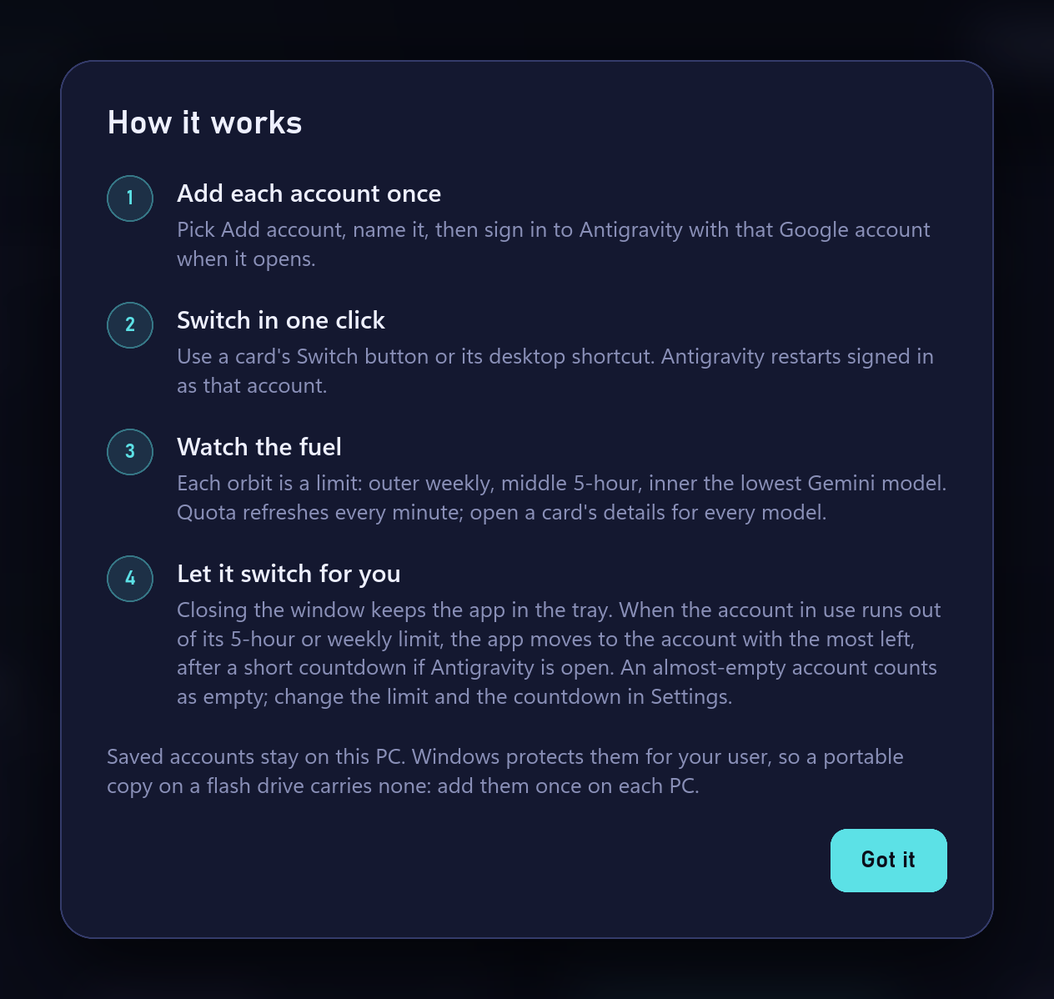
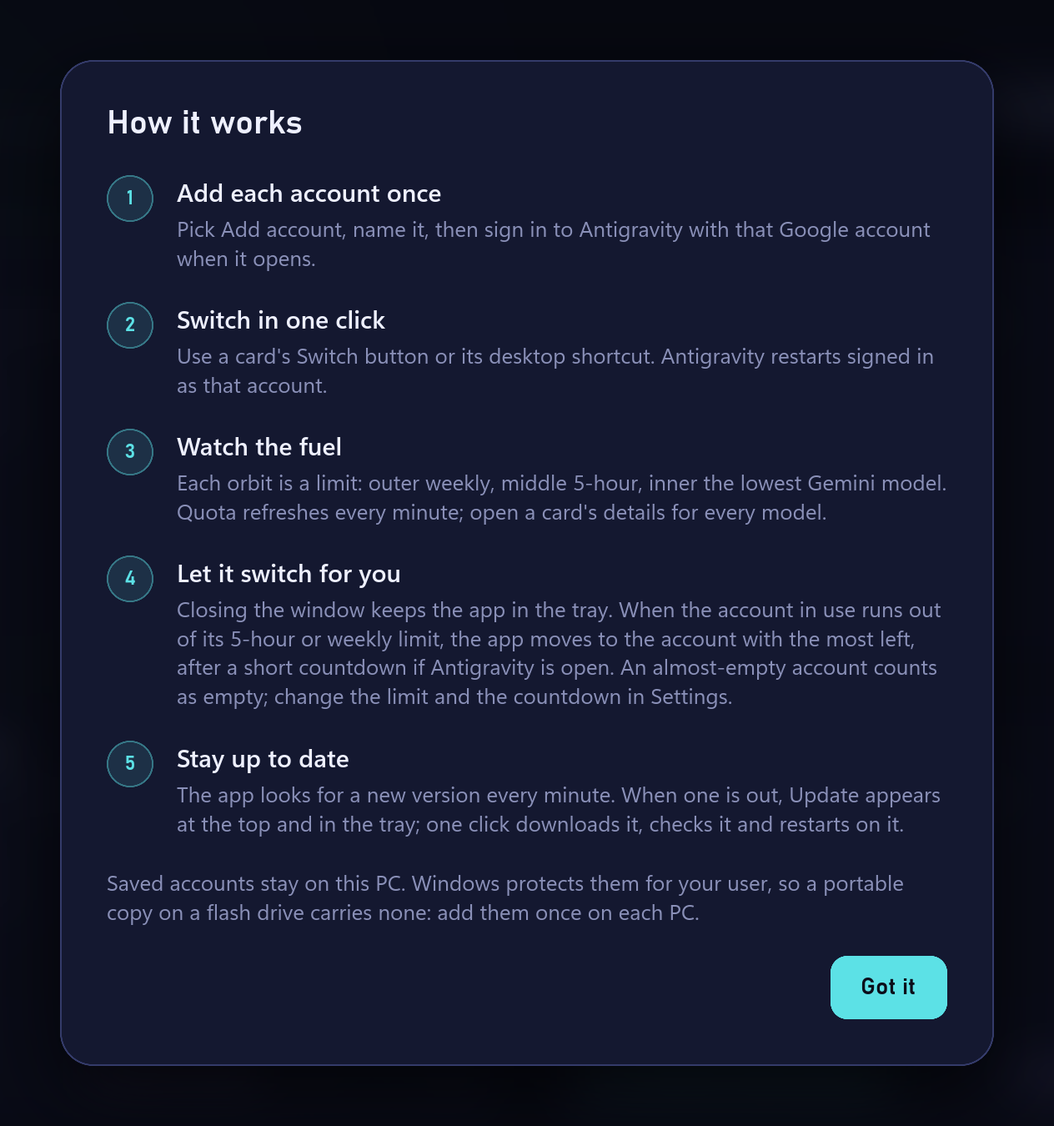
Rewrite the README for 1.2.0, and say in About that GitHub is contacted
The README now starts with the installer and the portable zip, tours
the one-click update with its own screenshots (the Update button, About
with a new version, the progress sheet, the corner notice and the tray
menu's new items), and documents the command line, the release files,
the CI and Release workflows and how to publish a version.

About and SECURITY.md said Google's quota service was the only thing
contacted; the release feed on GitHub is now named too.

diff --git a/README.md b/README.md
@@ -4,41 +4,46 @@
 
 **Every Antigravity account on one Windows desktop: the quota each one has left, and the switch made before you hit the wall.**
 
-One portable `.exe`, no installer, no administrator rights.
-Sign-ins stay in Windows Credential Manager; the only traffic is Google's own quota service, with each account's own sign-in.
+An installer or one portable `.exe`, no administrator rights.
+Sign-ins stay in Windows Credential Manager; the only traffic is Google's own quota service and this project's GitHub releases.
 When the account in use runs dry, it moves you to the one with the most left, and never from 2% to 1%.
 
-![version](https://img.shields.io/badge/version-1.1.0-6366f1?style=flat-square)
+[![release](https://img.shields.io/github/v/release/DrSaeedHub/pro-antigravity-manager?style=flat-square&color=6366f1&label=release)](https://github.com/DrSaeedHub/pro-antigravity-manager/releases)
+[![downloads](https://img.shields.io/github/downloads/DrSaeedHub/pro-antigravity-manager/total?style=flat-square&color=22c55e&label=downloads)](https://github.com/DrSaeedHub/pro-antigravity-manager/releases)
+[![ci](https://img.shields.io/github/actions/workflow/status/DrSaeedHub/pro-antigravity-manager/ci.yml?branch=master&style=flat-square&label=gate)](https://github.com/DrSaeedHub/pro-antigravity-manager/actions/workflows/ci.yml)
+[![license](https://img.shields.io/badge/license-MIT-334155?style=flat-square)](LICENSE)
 ![platform](https://img.shields.io/badge/platform-windows%2010%20%C2%B7%2011%20%C2%B7%20x64-334155?style=flat-square)
 ![rust](https://img.shields.io/badge/rust-1.100-dea584?style=flat-square)
 ![ui](https://img.shields.io/badge/ui-slint%201.19-2379f4?style=flat-square)
-![runtime dependencies](https://img.shields.io/badge/runtime%20dependencies-none-334155?style=flat-square)
-[![license](https://img.shields.io/badge/license-MIT-334155?style=flat-square)](LICENSE)
 
-[Install](#install) · [The tour](#the-tour) · [Feature reference](#feature-reference) · [What it keeps](#what-it-keeps-and-where) · [Configuration](#configuration) · [Build from source](#building-from-source)
+[Install](#install) · [The tour](#the-tour) · [Feature reference](#feature-reference) · [What it keeps](#what-it-keeps-and-where) · [Configuration](#configuration) · [Build from source](#building-from-source) · [Releasing](#releasing)
 
 </div>
 
 ![Six saved accounts, each with its orbit gauge](docs/screenshots/01-accounts.png)
 
-<div align="center"><em>Every screenshot here is the real app, with its own windows, tray menu and notices, driven by <code>tools/demo</code> with demonstration accounts and a pretend Google quota service.</em></div>
+<div align="center"><em>Every screenshot here is the real app, with its own windows, tray menu and notices, driven by <code>tools/demo</code> with demonstration accounts, a pretend Google quota service and a pretend release feed.</em></div>
 
 ## Install
 
-Windows 10 or 11 on x64, with Antigravity installed for the current user or in Program Files.
-A release is `AntigravityAccountSwitcher-<version>.zip` with its SHA-256 in a `.sha256` file beside it.
-Check the hash, unzip it anywhere, and run it:
+Windows 10 or 11 on x64, with Antigravity installed. Every
+[release](https://github.com/DrSaeedHub/pro-antigravity-manager/releases/latest) has two ways in:
+
+| File | What it is |
+|---|---|
+| `AntigravityAccountSwitcher-<version>-setup.exe` | **The installer.** Installs for your Windows user, with no administrator rights, into `%LOCALAPPDATA%\AntigravityAccountSwitcher`; adds a Start menu entry, a desktop shortcut and, if you tick it, Start with Windows; lists the app in Installed apps; opens it at the end |
+| `AntigravityAccountSwitcher-<version>-portable.zip` | **Portable.** The executable, `LICENSE` and this README. Unzip it anywhere and run `AntigravityAccountSwitcher.exe` |
+
+The executables are not code-signed, so the first time Windows SmartScreen may say it does not
+recognise the app: **More info → Run anyway**. `SHA256SUMS.txt` in the release has the hash of
+each file:
 
 ```powershell
-(Get-FileHash .\AntigravityAccountSwitcher-1.1.0.zip -Algorithm SHA256).Hash.ToLower()
-Expand-Archive .\AntigravityAccountSwitcher-1.1.0.zip .\AntigravityAccountSwitcher
-.\AntigravityAccountSwitcher\AntigravityAccountSwitcher.exe
+(Get-FileHash .\AntigravityAccountSwitcher-<version>-setup.exe -Algorithm SHA256).Hash.ToLower()
 ```
 
-That is the whole installation: the zip holds the executable, `LICENSE` and this README. To keep a
-copy with a desktop shortcut and a Start-menu entry, choose **⋯ → Install on this PC** in the
-window. Starting the app while it already runs brings up the running copy's window instead of a
-second one.
+From then on the app keeps itself up to date: it looks for a new release every minute and, when
+you choose **Update**, installs it and restarts on it ([how](#updates-in-one-click-checked-before-they-run)).
 
 Saved accounts belong to the PC, not to the executable: Windows protects them for your Windows
 user, so a copy carried on a flash drive brings none along. Add each account once per PC.
@@ -46,26 +51,35 @@ Accounts saved by version 1.2 of the earlier switcher appear by themselves, and 
 shortcuts keep working.
 
 <details>
-<summary><strong>The command line, upgrading, and removing it</strong></summary>
+<summary><strong>The command line, a silent install, and removing it</strong></summary>
 
 | Command | What it does |
 |---|---|
 | `AntigravityAccountSwitcher.exe` | The window and the tray icon. A second start shows the running copy and exits |
 | `AntigravityAccountSwitcher.exe --tray` | Starts in the tray, without the window (Start with Windows uses it); exits quietly if a copy already runs |
 | `AntigravityAccountSwitcher.exe --launch <name>` | What an account's desktop shortcut runs: the small switch window only |
+| `AntigravityAccountSwitcher.exe --version` | Prints the version and exits (the updater asks a downloaded copy this before trusting it) |
+| `AntigravityAccountSwitcher.exe --updated <old version>` | How the previous version starts the new one after an update: the window opens and says it updated |
+| `AntigravityAccountSwitcher.exe --uninstall` | What the uninstaller runs: removes every saved account's desktop shortcut and the Start with Windows shortcut |
 
 Only these exact forms count; the switch's letter case does not matter. Any other arguments open
 the window.
 
-**Upgrading.** Quit the running copy (tray → Quit), run the new executable, and choose
-**⋯ → Update the installed copy**. It replaces the installed executable in place, so every
-shortcut that points at it keeps working.
+**A silent install.** The installer is Inno Setup, so its usual switches work:
+`AntigravityAccountSwitcher-<version>-setup.exe /VERYSILENT /SUPPRESSMSGBOXES /MERGETASKS="startup"`
+(tasks: `desktopicon`, on by default, and `startup`). It asks a running copy to quit first, through
+the same channel a second start uses to show the window, and closes a copy too old to listen.
 
-**Removing.** There is no uninstaller, because nothing is registered with Windows. Remove each
-account in the window (that deletes its saved sign-in and its desktop shortcut), turn Start with
-Windows off in Settings, Quit, then delete `%LOCALAPPDATA%\AntigravityAccountSwitcher`, the
-desktop shortcut `Antigravity Account Switcher.lnk`, and the Start-menu folder
-`Antigravity Account Switcher`. Antigravity's own sign-in stays as it is.
+**Without the installer.** A portable copy can install itself: **⋯ → Install on this PC** copies
+it to the same folder the installer uses, with desktop and Start-menu shortcuts. Both kinds of
+copy update themselves the same way.
+
+**Removing.** If you used the installer, uninstall it from Installed apps: it removes the program,
+its shortcuts, every saved account's desktop shortcut and Start with Windows, and keeps your
+settings and saved accounts. To remove those too, remove each account in the window first (that
+deletes its saved sign-in), then delete `%LOCALAPPDATA%\AntigravityAccountSwitcher`. A portable copy
+is removed the same way by hand: remove the accounts, turn Start with Windows off in Settings,
+Quit, and delete the folder and the shortcuts. Antigravity's own sign-in stays as it is.
 
 </details>
 
@@ -104,11 +118,11 @@ tighter number; internal models are left out.
 ## Adding an account notices the sign-in, and undoes itself if you stop
 
 Give the account a short name (1 to 40 English letters, digits or hyphens, starting with a letter
-or digit; it also names the desktop shortcut). If Antigravity is open, the switcher asks to close it first. Then it sets the
-current sign-in aside, clears it, starts Antigravity, and checks every 2 seconds for the new
-sign-in, showing its email the moment it lands. **Save** copies it, reads the copy back to confirm
-it is there, and creates the desktop shortcut. **Cancel, a failure, or Quit in the middle puts the
-previous sign-in back**, or signs Antigravity out again if there was none.
+or digit; it also names the desktop shortcut). If Antigravity is open, the switcher asks to close
+it first. Then it sets the current sign-in aside, clears it, starts Antigravity, and checks every
+2 seconds for the new sign-in, showing its email the moment it lands. **Save** copies it, reads the
+copy back to confirm it is there, and creates the desktop shortcut. **Cancel, a failure, or Quit in
+the middle puts the previous sign-in back**, or signs Antigravity out again if there was none.
 
 | 1. Name it | 2. Close Antigravity |
 |---|---|
@@ -143,7 +157,7 @@ Every saved account gets `Antigravity - <name>.lnk` on the desktop, with Antigra
 runs `--launch <name>`, which opens a small window instead of the app: it asks first when
 Antigravity is open, switches, and reports a problem in words if there is one. The shortcut of the
 account already in use starts Antigravity when it is closed and does nothing when it runs.
-Shortcuts made after **Install on this PC** point at the installed copy.
+Shortcuts point at the installed copy when there is one.
 
 | Antigravity is open | The account is gone |
 |---|---|
@@ -154,12 +168,13 @@ Shortcuts made after **Install on this PC** point at the installed copy.
 Closing the window (its × button, Alt+F4, or the taskbar) keeps the app running in the tray, and
 the first time a notice says so. The tray menu lists every account with its 5-hour and weekly
 quota, the active one marked with a dot; picking one is the same as its card's Switch button, and
-the window opens only if a question has to be asked. The icon's tooltip carries the active
-account's numbers; a left click opens the window. Only one copy runs per Windows user.
+the window opens only if a question has to be asked. A new version, the GitHub page, Settings and
+Quit are there too. The icon's tooltip carries the active account's numbers; a left click opens
+the window. Only one copy runs per Windows user.
 
 | The tray menu | The first close |
 |---|---|
-| <img src="docs/screenshots/14-tray-menu.png" alt="The tray menu with every account's quota" width="309"> | <img src="docs/screenshots/15-tray-notice.png" alt="Still running in the tray" width="430"> |
+| <img src="docs/screenshots/14-tray-menu.png" alt="The tray menu with every account's quota, Update to 1.3.0 and the GitHub page" width="309"> | <img src="docs/screenshots/15-tray-notice.png" alt="Still running in the tray" width="430"> |
 
 ## It switches for you, but never from 2% to 1%
 
@@ -183,11 +198,40 @@ until a full reading taken after it.
 |---|---|
 | <img src="docs/screenshots/17-quiet-switch.png" alt="Switched to work-2 while Antigravity was closed" width="390"> | <img src="docs/screenshots/18-all-empty.png" alt="Every account is out of quota; personal refills first" width="390"> |
 
-The threshold, the countdown and Start with Windows are in **Settings**, from the ⋯ menu or the
-tray menu. Every change is saved at once.
+The threshold, the countdown, Start with Windows and the update checks are in **Settings**, from
+the ⋯ menu or the tray menu. Every change is saved at once.
 
 <div align="center">
 <img src="docs/screenshots/19-settings.png" alt="Settings" width="632">
+</div>
+
+## Updates in one click, checked before they run
+
+The app reads this repository's newest release every minute, with the window open or in the tray,
+from `releases/latest/download/latest.json`: a small manifest the release workflow writes, served
+by GitHub's download network rather than its rate-limited API. A newer version appears as an
+**Update** button at the top, as an item in the tray menu and in About; while the window is hidden
+it is announced once, in the corner. Nothing is installed until you choose it.
+
+<div align="center">
+<img src="docs/screenshots/26-update-button.png" alt="Update to 1.3.0, beside Refresh and Add account" width="560">
+</div>
+
+One click downloads the portable package next to the running executable, with progress and
+**Cancel**. **Before anything is replaced**, the download must come from this repository over
+HTTPS, match the size and SHA-256 in the manifest, and the executable inside it must start and
+report the version it was offered. Then the running file is renamed aside (Windows lets a running
+program be renamed, not overwritten), the new one takes its name, and the app restarts on it and
+says so; the old file is deleted on that start. A copy that cannot write its own folder says so and
+offers the download page instead. An installed copy also keeps the version in Installed apps
+current. Prereleases are never offered.
+
+| About, with the new version | Updating |
+|---|---|
+| <img src="docs/screenshots/25-about.png" alt="About: version 1.3.0 is ready, with Release notes, Update and the GitHub page" width="410"> | <img src="docs/screenshots/27-update-progress.png" alt="Updating to 1.3.0: downloading with a progress bar and Cancel" width="410"> |
+
+<div align="center">
+<img src="docs/screenshots/28-update-notice.png" alt="Version 1.3.0 is ready, with Later and Update" width="430">
 </div>
 
 ## Problems are named, with what to do about them
@@ -211,18 +255,9 @@ The first start has nothing to show, and says what to do next:
 <img src="docs/screenshots/22-first-run.png" alt="No accounts yet" width="680">
 </div>
 
-| The ⋯ menu | About |
+| The ⋯ menu | How it works |
 |---|---|
-| <img src="docs/screenshots/23-more-menu.png" alt="Install on this PC, How it works, Settings, About, Quit" width="270"> | <img src="docs/screenshots/25-about.png" alt="About, with the version and the privacy statement" width="500"> |
-
-<details>
-<summary><strong>How it works, as the app explains it</strong></summary>
-
-<div align="center">
-<img src="docs/screenshots/24-help.png" alt="How it works: add, switch, watch the fuel, let it switch for you" width="632">
-</div>
-
-</details>
+| <img src="docs/screenshots/23-more-menu.png" alt="Install on this PC, How it works, Settings, About, Quit" width="270"> | <img src="docs/screenshots/24-help.png" alt="How it works: add, switch, watch the fuel, let it switch for you, stay up to date" width="500"> |
 
 ---
 
@@ -234,13 +269,14 @@ The first start has nothing to show, and says what to do next:
 | **Quota** | Every account once a minute, window open or in the tray · Refresh on demand · every limit group and every model in a details drawer, in Antigravity's order · countdowns and local reset times · access tokens kept in memory and renewed 2 minutes early · Antigravity's own sign-in client found in its install, cached encrypted, looked for again while missing · the Windows proxy settings, including PAC scripts and automatic detection |
 | **Switching** | One click, or a double-click on the card · asks before closing an open Antigravity · close request, then ending its processes, 8 s each · the credential copied whole, never edited · the active account just starts Antigravity · nothing blocks the window |
 | **Adding** | Guided: name → close Antigravity → sign in → save · the new sign-in noticed every 2 s, with its email · the saved copy read back · desktop shortcut created · Cancel, a failure or Quit restores the previous sign-in |
-| **Shortcuts** | `Antigravity - <name>.lnk` per account, with Antigravity's icon · `--launch <name>` window that asks, switches and reports · aimed at the installed copy when there is one · removed with the account |
-| **Tray** | Closing keeps it running · every account's 5-hour and weekly quota in the menu · pick an account to switch · automatic switching and Start with Windows as check items · Settings and Quit · the active account's quota in the tooltip · one running copy per Windows user |
+| **Shortcuts** | `Antigravity - <name>.lnk` per account, with Antigravity's icon · `--launch <name>` window that asks, switches and reports · aimed at the installed copy when there is one · removed with the account, and by the uninstaller |
+| **Tray** | Closing keeps it running · every account's 5-hour and weekly quota in the menu · pick an account to switch · Update to a new version · automatic switching and Start with Windows as check items · Settings, the GitHub page and Quit · the active account's quota in the tooltip · one running copy per Windows user |
 | **Automatic switching** | Threshold 1–50% (5%) on the 5-hour and weekly limits · the most-left account as target, unknown quota never one · countdown notice 0–600 s (60 s) with Switch now and Not now · a quiet sign-in change when Antigravity is closed · one notice with the earliest refill when every account is empty · waits for a fresh reading after each switch |
-| **Install** | A portable single executable · Install on this PC: a copy in `%LOCALAPPDATA%`, desktop and Start-menu shortcuts · Update the installed copy · Start with Windows, in the tray |
-| **Privacy and safety** | Sign-ins only in Windows Credential Manager · only Google's token and quota endpoints contacted · a log that never holds a token · no administrator rights · removing an account never touches projects or conversations |
+| **Updates** | A check 5 s after start and every 60 s, from GitHub's download network, through the Windows proxy · Update in the header, the tray and About · one corner notice per version while the window is hidden · progress and Cancel · HTTPS from this repository only, size, SHA-256 and a `--version` answer checked before anything is replaced · the running file renamed aside, never overwritten, put back if the swap fails · restart on the new version with a note · old files cleaned on the next start · waits while an account is being added or a switch runs · prereleases and older versions never offered · automatic checks can be turned off |
+| **Install** | A per-user installer (no administrator rights, Start menu, desktop, optional Start with Windows, Installed apps, an uninstaller that keeps settings and accounts) · or a portable executable · Install on this PC from the portable copy · both update themselves |
+| **Privacy and safety** | Sign-ins only in Windows Credential Manager · only Google's token and quota endpoints and this repository's releases contacted · a log that never holds a token · no administrator rights · removing an account never touches projects or conversations |
 | **Compatibility** | The saved accounts, account shortcuts, install folder and sign-in client cache of version 1.2 of the earlier switcher keep working |
-| **Interface** | A dark theme of its own · frameless window with the Windows 11 shadow and rounded corners · English, with every sentence ready for translation · labels for screen readers and UI Automation on every control |
+| **Interface** | A dark theme of its own · frameless window with the Windows 11 shadow and rounded corners · English, with every sentence ready for translation · labels for screen readers and UI Automation on every control · About links to this repository |
 
 ---
 
@@ -251,22 +287,26 @@ The first start has nothing to show, and says what to do next:
 | Credential Manager, `antigravity-switcher:<name>` | A saved account: a copy of Antigravity's sign-in, as Antigravity wrote it |
 | Credential Manager, `antigravity-switcher:setup-rollback` | The previous sign-in, only while an account is being added |
 | Credential Manager, `gemini:antigravity` | Antigravity's own sign-in; the switcher copies into it and never edits it |
+| `%LOCALAPPDATA%\AntigravityAccountSwitcher\AntigravityAccountSwitcher.exe` | The installed copy (installer, or **Install on this PC**) |
 | `%LOCALAPPDATA%\AntigravityAccountSwitcher\settings.json` | Settings |
 | `%LOCALAPPDATA%\AntigravityAccountSwitcher\oauth-client.bin` | Antigravity's sign-in client, encrypted with DPAPI for your Windows user |
 | `%LOCALAPPDATA%\AntigravityAccountSwitcher\logs\app.log` | A diagnostic log, moved to `app.1.log` at start once it passes 1 MiB |
-| `%LOCALAPPDATA%\AntigravityAccountSwitcher\AntigravityAccountSwitcher.exe` | The installed copy, after **Install on this PC** |
+| Next to the running executable, for a moment | `…download.zip` and `…new.exe` during an update, `….exe.<time>.old` until the next start |
 | Desktop, `Antigravity - <name>.lnk` | An account's shortcut |
-| Desktop and Start menu, `Antigravity Account Switcher.lnk` | The app, after **Install on this PC** |
+| Desktop and Start menu, `Antigravity Account Switcher.lnk` | The app |
 | Startup folder, `Antigravity Account Switcher.lnk` | Start with Windows, running `--tray` |
+| `HKCU\…\CurrentVersion\Uninstall\{6F0D6D3C-…}_is1` | The Installed apps entry, written by the installer |
 
 **Network.** A saved refresh token is exchanged at `oauth2.googleapis.com` for an access token,
 using the installed-app sign-in client that ships inside Antigravity: the switcher finds it by
 scanning Antigravity's language server and caches it, because Google issues it to Antigravity, not
 to this tool. Quota comes from `cloudcode-pa.googleapis.com` (`loadCodeAssist`,
-`retrieveUserQuotaSummary`, `fetchAvailableModels`). Both go through the Windows proxy settings:
-the manual proxy and its bypass list, a PAC script, or automatic detection, remembered per host
-for 5 minutes. Each request may take 25 seconds; a refused access token is renewed and retried
-once. Nothing else is contacted.
+`retrieveUserQuotaSummary`, `fetchAvailableModels`); each request may take 25 seconds, and a
+refused access token is renewed and retried once. Updates come from
+`github.com/DrSaeedHub/pro-antigravity-manager/releases` (and the GitHub download host it redirects
+to), over HTTPS only. Everything goes through the Windows proxy settings: the manual proxy and its
+bypass list, a PAC script, or automatic detection, remembered per host for 5 minutes. Nothing else
+is contacted.
 
 **Privileges.** The app runs as the signed-in user (`asInvoker`) and reads no environment
 variables. The log never receives a token: secret values are a type that prints as `***`.
@@ -281,24 +321,34 @@ Everything is set in the window or the tray and saved at once to `settings.json`
 | Switch automatically when quota runs out | `autoSwitch` | `true` | on or off |
 | Counts as out of quota at | `emptyAtPercent` | `5` | 1–50 (%) |
 | Warning before Antigravity restarts | `warningSeconds` | `60` | 0–600 s, in 15 s steps in the window; 0 switches without a warning |
+| Check for updates automatically | `checkUpdates` | `true` | on or off; Check for updates in About works either way |
 | (the first close-to-tray notice was shown) | `trayHintShown` | `false` | |
+| (the newest version the corner notice announced) | `notifiedVersion` | empty | |
 
 A missing or unreadable file means the defaults; a value out of range is clamped to it. Start with
-Windows is not a key: it is the shortcut in the Startup folder itself. There are no environment variables. Endpoints, timings and credential names are
-constants in each crate's settings struct, so tests can point them elsewhere.
+Windows is not a key: it is the shortcut in the Startup folder itself. There are no environment
+variables. Endpoints, timings and credential names are constants in each crate's settings struct,
+so tests can point them elsewhere; the release feed's address comes from `repository` in
+`Cargo.toml`.
 
 ## Building from source
 
 Install Rust with [rustup](https://rustup.rs). The toolchain is pinned to 1.100.0 with the MSVC
 target in `rust-toolchain.toml`, and rustup fetches it on the first build. The C runtime is linked
 statically (`.cargo/config.toml`), which is why the executable needs nothing installed beside it.
+The installer needs [Inno Setup](https://jrsoftware.org/isinfo.php) 6 or 7
+(`winget install JRSoftware.InnoSetup`).
 
 ```powershell
-cargo build --release      # target\release\AntigravityAccountSwitcher.exe
-cargo xtask dist           # dist\AntigravityAccountSwitcher-<version>.zip and its .sha256
+cargo build --release                  # target\release\AntigravityAccountSwitcher.exe
+cargo xtask dist                       # every release file, in dist\
+cargo xtask dist --portable-only       # without Inno Setup: the zip and the feed only
 ```
 
-`cargo xtask dist` packs the executable, `LICENSE` and `README.md` from the repository root.
+`cargo xtask dist` builds the release executable and writes `dist\`:
+`AntigravityAccountSwitcher-<version>-setup.exe` (from `installer\AntigravityAccountSwitcher.iss`),
+`AntigravityAccountSwitcher-<version>-portable.zip`, `latest.json`, `SHA256SUMS.txt` and
+`release-notes.md` (the version's section of `CHANGELOG.md`, which must exist).
 
 ### Running the tests
 
@@ -314,7 +364,9 @@ environment variable, then every test under coverage, with at least 95% of lines
 the UI crate. Every Windows boundary is a trait with a Windows adapter and an in-memory fake that
 pass the same contract tests. Tests that touch the real Credential Manager use throw-away names (a
 scoped store refuses any other name) and run one at a time (`.config/nextest.toml`), because
-Credential Manager can lose a write when several processes write at the same moment.
+Credential Manager can lose a write when several processes write at the same moment. The updater's
+tests serve releases from a local server, and replace a running copy of a small stand-in program
+for real.
 
 ### Screenshots
 
@@ -328,16 +380,30 @@ python tools/demo/demo.py reset                  # forget the sessions' state
 ```
 
 It copies the working tree into `.demo/code`, builds the `demo` example there, starts a pretend
-Google quota service that answers from `tools/demo/accounts.json`, and plays the sessions of
-`tools/demo/shots.json`. The example (`crates/app/examples/demo.rs`) is the real controller, windows
-and tray icon, clicked through their own buttons, over pretend Windows parts: credentials in
-memory, a pretend Antigravity, shortcuts that are only recorded, and every folder under
-`.demo/sessions`. Nothing real on the PC is read or changed; the windows appear on screen while it
-runs, and the tray-menu shot moves the pointer for a moment and puts it back. It needs Python 3.11
-with Pillow, and is sharpest on a screen that fits the window at twice its size.
+Google quota service that answers from `tools/demo/accounts.json` (and a pretend release feed for
+sessions that set `release`), and plays the sessions of `tools/demo/shots.json`. The example
+(`crates/app/examples/demo.rs`) is the real controller, windows and tray icon, clicked through their
+own buttons, over pretend Windows parts: credentials in memory, a pretend Antigravity, shortcuts
+that are only recorded, and every folder under `.demo/sessions`. Nothing real on the PC is read or
+changed; the windows appear on screen while it runs, and the tray-menu shot moves the pointer for a
+moment and puts it back. It needs Python 3.11 with Pillow, and is sharpest on a screen that fits the
+window at twice its size.
 
 `cargo run -p app --example snapshot -- out.png <scene>` renders a single screen with made-up data,
 for design work.
+
+## Releasing
+
+1. Set `version` in `Cargo.toml` and give `CHANGELOG.md` a `## <version>` section.
+2. Commit, tag and push: `git tag v<version>` then `git push origin master v<version>`.
+
+The **Release** workflow (`.github/workflows/release.yml`) runs the gate, then `cargo xtask dist
+--tag`, which stops if the tag is not the `Cargo.toml` version or `repository` in `Cargo.toml` is
+not the repository being built (running copies would look for updates in the wrong place). It
+publishes every file in `dist\` as the release, with the CHANGELOG section as its notes; a tag with
+a hyphen (`v1.3.0-beta.1`) becomes a prerelease, which running copies do not take. Running the
+workflow by hand with an existing tag builds that release again and replaces its files. The
+**CI** workflow runs the gate on every push to `master` and every pull request.
 
 ## Layout
 
@@ -345,13 +411,17 @@ for design work.
 crates/kernel        clock, known folders, secret values, lenient JSON, the log
 crates/vault         Windows Credential Manager and the sign-in JSON
 crates/antigravity   finding, closing and starting Antigravity
-crates/desktop       shortcuts, the installed copy, settings, Start with Windows, one running copy
+crates/desktop       shortcuts, the installed copy, settings, Start with Windows, one running copy, links
 crates/accounts      saved accounts, switching, and the add flow with its rollback
-crates/quota         sign-in client, tokens, Google's quota API, the Windows proxy, the switch decision
+crates/net           the HTTP client and the Windows proxy rules, shared by quota and updates
+crates/quota         sign-in client, tokens, Google's quota API, the switch decision
+crates/update        the release feed, the checked download, replacing the running executable
 crates/app           the Slint UI (ui/), the controller, the tray, the shortcut window, the composition root
 crates/app/examples  demo (this README's screenshots) and snapshot (one screen with made-up data)
-xtask                the gate and the release zip
-tools/demo           the screenshot driver, the pretend Google service, its accounts and the shot list
+installer            the Inno Setup script
+xtask                the gate and the release files
+tools/demo           the screenshot driver, the pretend Google and GitHub, its accounts and the shot list
+.github/workflows    CI (the gate) and Release (tags)
 docs/screenshots     the images in this README
 ```
 

diff --git a/SECURITY.md b/SECURITY.md
@@ -13,6 +13,10 @@ and the impact. Remove personal data from screenshots and logs first.
   as a whole and never changes its content or writes it to a file.
 - Access tokens live in memory only. Refresh tokens are sent only to `oauth2.googleapis.com`;
   quota requests go only to `cloudcode-pa.googleapis.com`, through the Windows proxy settings.
+- Updates are read from this project's GitHub releases over HTTPS only. A download is used only
+  if it comes from this repository, matches the size and SHA-256 in the release's `latest.json`,
+  and the executable inside it starts and reports the version it was offered; the running
+  executable is replaced only after that, and only when you choose Update.
 - Antigravity's sign-in client is read from its install and cached with DPAPI (current user) in
   `%LOCALAPPDATA%\AntigravityAccountSwitcher\oauth-client.bin`.
 - The log in `%LOCALAPPDATA%\AntigravityAccountSwitcher\logs` never contains tokens: secret values
